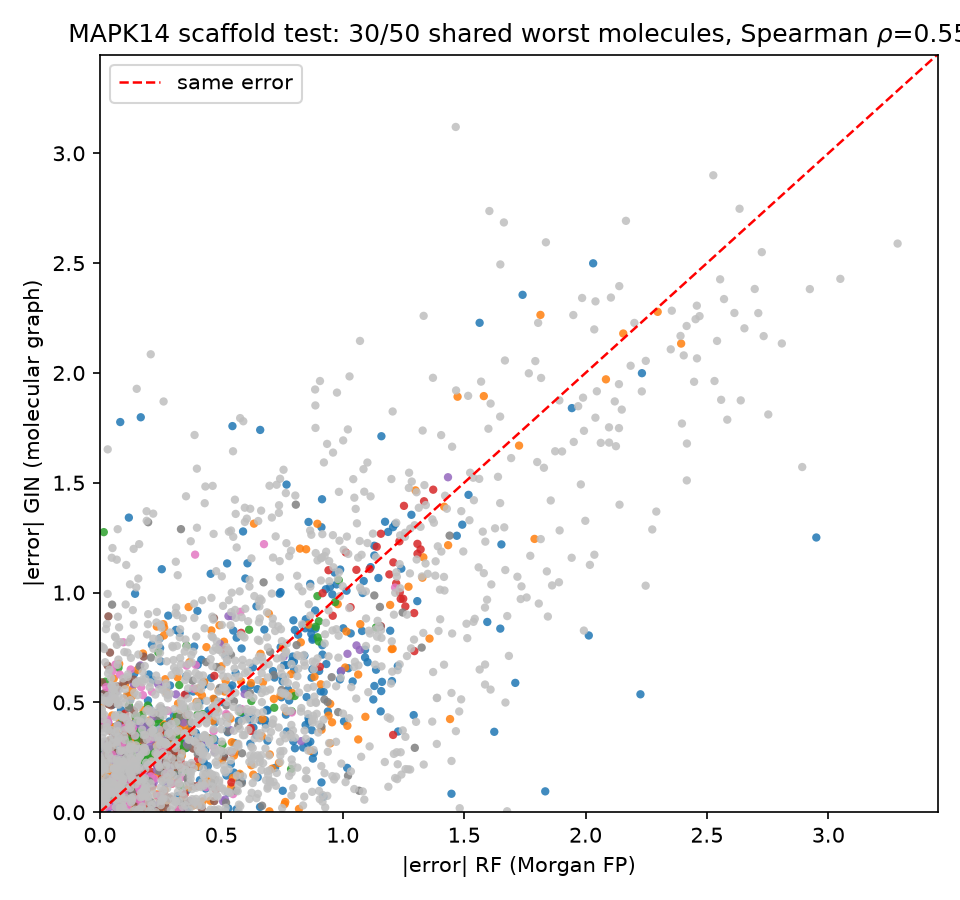
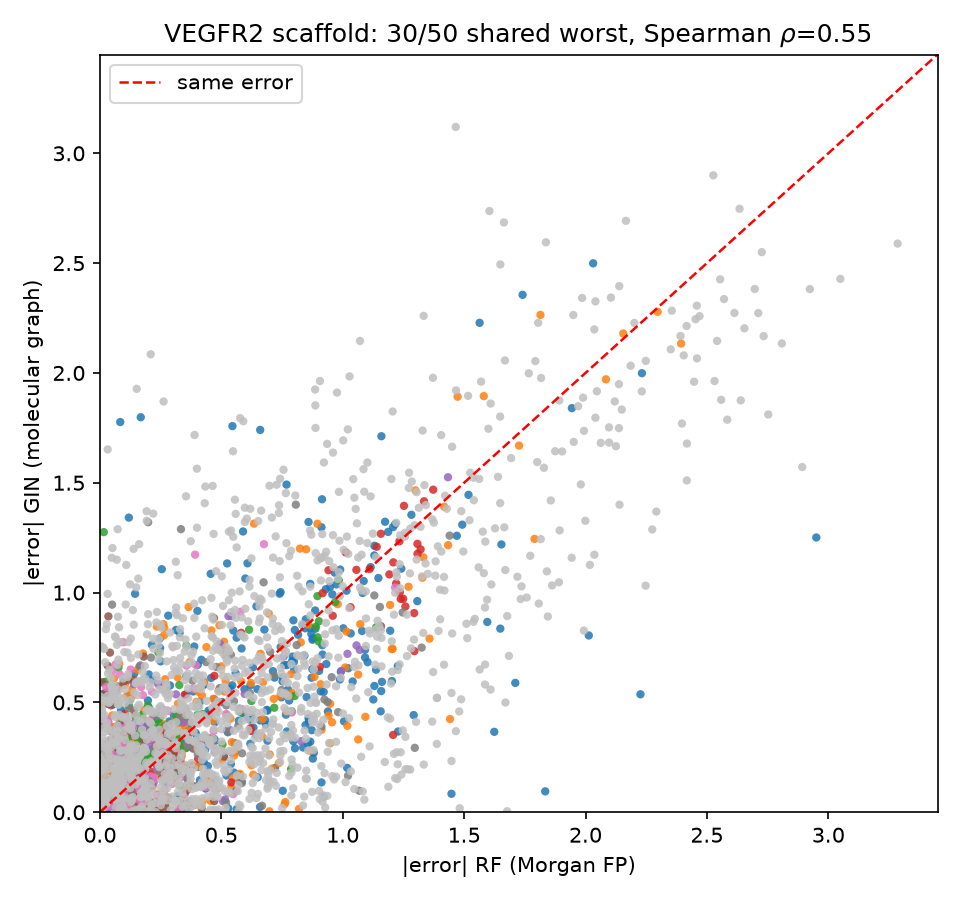
fix: unclip figure titles; regenerate affected figures
- 04 scatter title used the full target name (up to 46 chars) and
  overflowed the 6in canvas - use the short TAG. Add --plot-only to
  re-plot from the saved models without retraining (metrics untouched;
  spot-checked R2 matches the published values for all 9 tags).
- gnn_05 title '... shared worst molecules, Spearman ...' overflowed -
  shortened. Regenerating the error-analysis figures also fixes the
  stale MAPK14 titles on the vegfr2 pair (rename had only git-mv'd
  them). Overlap/Spearman values unchanged (egfr 25/21, a2a 32/32,
  herg 32/42, vegfr2 25/30).
- pytest: hide pytest argv from 04's new argparse.

Changed region(s): [[0.0625, 0.0311, 1.0, 0.0622]]

diff --git a/scripts/04_train_and_evaluate.py b/scripts/04_train_and_evaluate.py
@@ -60,7 +60,8 @@ def scatter(y_test, pred, tag, path, target):
     plt.plot([lo, hi], [lo, hi], "r--", lw=1.5, label="ideal")
     plt.xlabel("Actual pIC50")
     plt.ylabel("Predicted pIC50")
-    plt.title(f"{target} QSAR - RandomForest ({tag} split)")
+    # short TAG-based title: full target names overflow the 6in canvas
+    plt.title(f"{TAG.upper()} - RandomForest ({tag} split)")
     plt.legend()
     plt.tight_layout()
     plt.savefig(path, dpi=150)
@@ -85,6 +86,13 @@ def run_split(X, y, smiles, train_idx, test_idx, tag, fig_path, target):
 
 
 def main():
+    import argparse
+    p = argparse.ArgumentParser()
+    p.add_argument("--plot-only", action="store_true",
+                   help="skip GridSearchCV; load the saved models, re-plot the "
+                        "predicted-vs-actual figures (metrics are NOT rewritten)")
+    args = p.parse_args()
+
     os.makedirs(FIG_DIR, exist_ok=True)
     os.makedirs(MODEL_DIR, exist_ok=True)
     os.makedirs(os.path.dirname(METRICS_JSON), exist_ok=True)
@@ -98,14 +106,24 @@ def main():
     tr, te = train_test_split(
         np.arange(len(X)), test_size=0.2, random_state=RANDOM_STATE
     )
+    # ---- scaffold split ----
+    tr_s, te_s = scaffold_split(smiles, test_size=0.2)
+
+    if args.plot_only:
+        for split, train_idx, test_idx in (("random", tr, te), ("scaffold", tr_s, te_s)):
+            model = joblib.load(os.path.join(MODEL_DIR, f"rf_{split}_split_{TAG}.joblib"))
+            pred = model.predict(X[test_idx])
+            print(f"[plot-only:{split}] test R2 = {r2_score(y[test_idx], pred):.6f}")
+            scatter(y[test_idx], pred, split,
+                    os.path.join(FIG_DIR, f"pred_vs_actual_{split}_{TAG}.png"), target)
+        return
+
     m_rand, best_rand, _ = run_split(
         X, y, smiles, tr, te, "random",
         os.path.join(FIG_DIR, f"pred_vs_actual_random_{TAG}.png"), target
     )
     joblib.dump(best_rand, os.path.join(MODEL_DIR, f"rf_random_split_{TAG}.joblib"))
 
-    # ---- scaffold split ----
-    tr_s, te_s = scaffold_split(smiles, test_size=0.2)
     m_scaf, best_scaf, _ = run_split(
         X, y, smiles, tr_s, te_s, "scaffold",
         os.path.join(FIG_DIR, f"pred_vs_actual_scaffold_{TAG}.png"), target

diff --git a/tests/test_pipeline_smoke.py b/tests/test_pipeline_smoke.py
@@ -5,6 +5,7 @@ module-level path constants are monkeypatched.  04's grid is shrunk to a
 single 3-tree candidate so the whole test stays in the seconds range.
 """
 import json
+import sys
 
 import numpy as np
 import pandas as pd
@@ -97,6 +98,8 @@ def test_pipeline_02_03_04_smoke(tmp_path, monkeypatch, load_script, valid_smile
         "PARAM_GRID",
         {"n_estimators": [3], "max_depth": [None], "min_samples_split": [2]},
     )
+    # main() parses CLI flags (e.g. --plot-only); hide pytest's own argv
+    monkeypatch.setattr(sys, "argv", ["04_train_and_evaluate.py"])
     mod04.main()
 
     payload = json.loads(metrics_json.read_text())

diff --git a/scripts/gnn_05_error_analysis.py b/scripts/gnn_05_error_analysis.py
@@ -116,7 +116,8 @@ def analyse(split):
     ax.set_ylim(0, lim)
     ax.set_xlabel("|error| RF (Morgan FP)")
     ax.set_ylabel("|error| GIN (molecular graph)")
-    ax.set_title(f"{TAG.upper()} {split} test: {overlap}/{TOP_K} shared worst molecules, "
+    # short title: the long form overflows the 6.4in canvas
+    ax.set_title(f"{TAG.upper()} {split}: {overlap}/{TOP_K} shared worst, "
                  f"Spearman $\\rho$={rho:.2f}")
     ax.legend(loc="upper left")
     fig.tight_layout()
